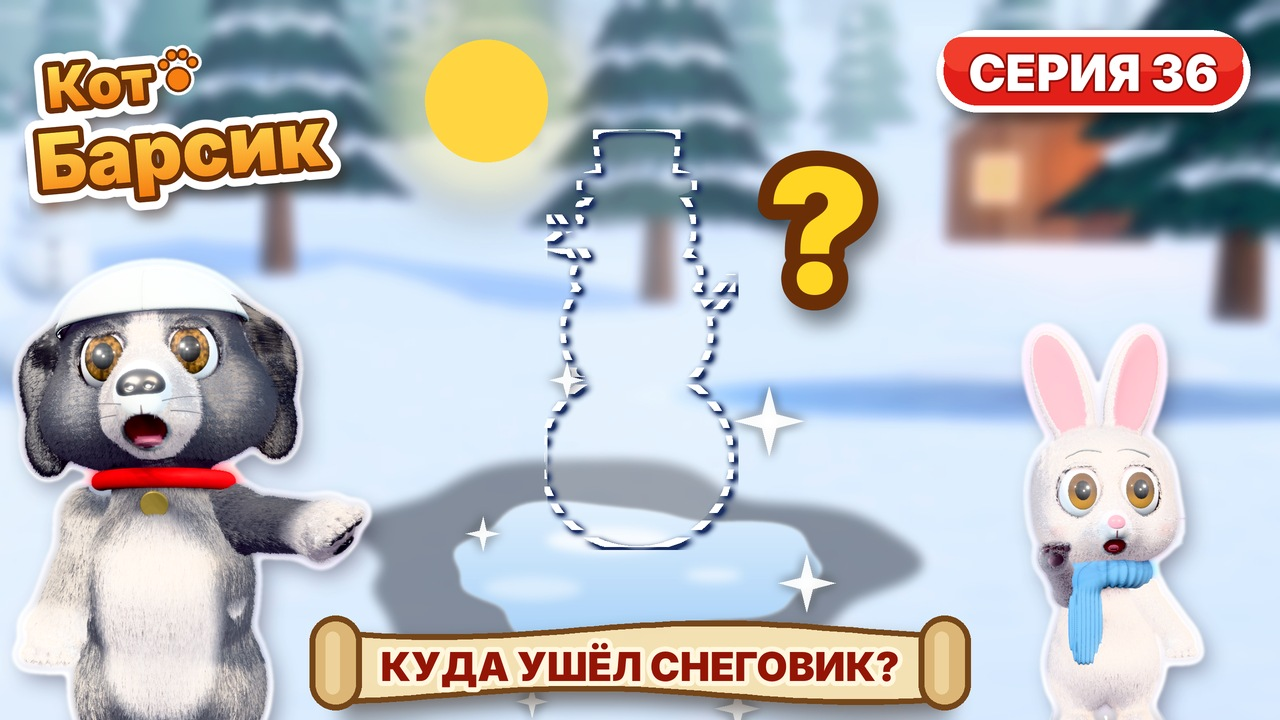
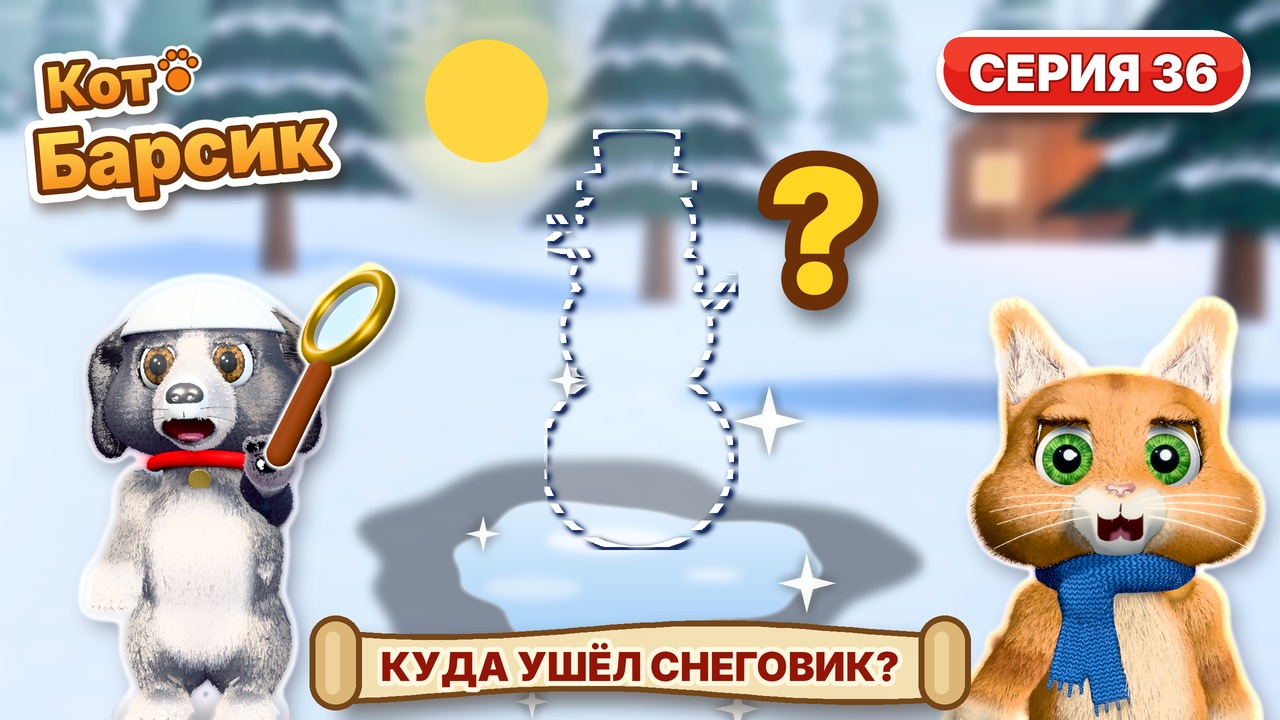
Обложки: 36 v3 «пропажа» по элементам сборки 36 (Рон-сыщик с лупой), 37 v1 «действие» (Рон прыгает на лёд)
Claude-Session: https://claude.ai/code/session_01WYD11AKTjvBYy3ci2X1Asi

diff --git a/covers/37/v1.py b/covers/37/v1.py
@@ -1,0 +1,46 @@
+# Обложка 37, схема «действие» (22.11.2026): Рон в прыжке по диагонали летит на замёрзшую лужу — лёд голубой, блестит,
+# белый иней по краю и трещинки; «?» над льдом; Филя смеётся справа (мельче). Лёд рисуется здесь (как в движке led-eng).
+#   OBLOZHKA=<папка с compose.py> python3 covers/37/v1.py папка_элементов выход.jpg
+import sys, os, math, random
+sys.path.insert(0, os.path.join(os.path.dirname(os.path.abspath(__file__)), '..', '..'))
+import afisha as A
+from PIL import Image, ImageDraw, ImageFilter, ImageEnhance, ImageChops
+el, out = sys.argv[1], sys.argv[2]; BW, BH, S = A.BW, A.BH, A.S
+plan = {"el": el, "bg": "f1_winter_day.jpg", "bg_zoom": [0.5, 0.45, 1.35], "blur": 6, "sat": 1.25, "bri": 1.05, "tint": [140, 190, 250, 35]}
+cv = A.background(plan, el)
+def blob(cx, cy, rx, ry, seed, n=90):
+    pts = []
+    for i in range(n):
+        a = i / n * 2 * math.pi; k = 1 + .1 * math.sin(a * 3 + seed) + .06 * math.sin(a * 5 + seed * 2.3) + .03 * math.sin(a * 9 + seed * .7)
+        pts.append((cx + math.cos(a) * rx * k, cy + math.sin(a) * ry * k))
+    return pts
+# лёд: иней по краю, голубая гладь с градиентом, отражение неба, трещинки, блики
+cx, cy, rx, ry = BW * .5, BH * .8, BW * .3, BH * .13
+L = A.layer(); d = ImageDraw.Draw(L); d.polygon(blob(cx, cy + 8 * S, rx * 1.06, ry * 1.12, 1.3), fill=(70, 110, 160, 90)); cv.alpha_composite(L.filter(ImageFilter.GaussianBlur(14 * S)))
+L = A.layer(); d = ImageDraw.Draw(L); d.polygon(blob(cx, cy, rx * 1.04, ry * 1.08, 1.3), fill=(246, 251, 255, 255)); cv.alpha_composite(L.filter(ImageFilter.GaussianBlur(2 * S)))
+m = Image.new('L', (BW, BH), 0); ImageDraw.Draw(m).polygon(blob(cx, cy, rx * .95, ry * .95, 1.3), fill=255)
+g = Image.new('RGBA', (BW, BH)); gd = ImageDraw.Draw(g)
+for y in range(int(cy - ry * 1.1), int(cy + ry * 1.1)):
+    t = (y - (cy - ry)) / (2 * ry); t = min(1, max(0, t)); c = (int(150 + 60 * t), int(205 + 30 * t), int(238 + 12 * t), 255); gd.line([(cx - rx * 1.2, y), (cx + rx * 1.2, y)], fill=c)
+g.putalpha(m); cv.alpha_composite(g)
+L = A.layer(); d = ImageDraw.Draw(L); rnd = random.Random(5)
+for (x0, y0, ln, a) in [(-.45, -.1, .5, .25), (.05, .25, .45, -.4), (.35, -.2, .35, .9), (-.1, -.35, .3, 2.6), (-.6, .3, .25, -.2)]:
+    px, py = cx + x0 * rx, cy + y0 * ry; pts = [(px, py)]
+    for k in range(5): a += rnd.uniform(-.5, .5); px += math.cos(a) * ln * rx / 5; py += math.sin(a) * ln * ry / 5 * 1.6; pts.append((px, py))
+    d.line(pts, fill=(255, 255, 255, 230), width=3 * S)
+for (x0, y0, w0, h0) in [(-.25, -.3, .32, .1), (.3, .15, .18, .06)]:
+    d.ellipse([cx + (x0 - w0) * rx, cy + (y0 - h0) * ry, cx + (x0 + w0) * rx, cy + (y0 + h0) * ry], fill=(255, 255, 255, 120))
+L2 = Image.new('RGBA', (BW, BH)); L2.paste(L, (0, 0), m); cv.alpha_composite(L2)
+for it in [
+    {"img": "g3_Филя_likuet1.png", "cx": 0.87, "bottom": 1.04, "h": 0.56, "outline": 6, "flip": True},
+    {"img": "g2_Рон_pryg.png", "cx": 0.36, "bottom": 0.74, "h": 0.66, "rot": -18, "outline": 7},
+    {"sparkles": True, "cx": 0.55, "cy": 0.79, "r": 0.2, "n": 7},
+    {"mark": "?", "cx": 0.68, "cy": 0.33, "h": 0.24},
+]: A.place(cv, it, el)
+# линии движения за Роном
+L = A.layer(); d = ImageDraw.Draw(L)
+for k, (x0, y0) in enumerate([(.13, .2), (.11, .3), (.14, .4)]):
+    d.line([(BW * x0, BH * y0), (BW * (x0 + .08), BH * (y0 + .08))], fill=(255, 255, 255, 200), width=6 * S)
+cv.alpha_composite(L.filter(ImageFilter.GaussianBlur(1 * S)))
+A.C.logo(cv, .8); A.C.pill(cv, "СЕРИЯ 37"); A.C.PAD = 30; A.C.banner(cv, ["ЛУЖА СТАЛА ЛЬДОМ?"], 'center', maxw=.5, base=40)
+res = cv.convert('RGB').resize((A.W, A.H), Image.LANCZOS); res = ImageEnhance.Contrast(res).enhance(1.03); res.save(out, quality=93, optimize=True); res.resize((320, 180), Image.LANCZOS).save(out.replace('.jpg', '_mini.jpg'), quality=88); print(out)

diff --git a/covers/36/v3.py b/covers/36/v3.py
@@ -1,0 +1,39 @@
+# Обложка 36 v3, схема «пропажа» (22.11.2026, элементы сборки 36): на снегу лужа, над ней пунктиром — контур снеговика, которого нет;
+# знак «?»; Рон-сыщик с лупой слева показывает на лужу, Барсик удивлён справа (оба мельче вещи). v_luzha.png — covers/31/luzha.py.
+#   OBLOZHKA=<папка с compose.py> python3 covers/36/v3.py папка_элементов выход.jpg
+import sys, os, math, random
+sys.path.insert(0, os.path.join(os.path.dirname(os.path.abspath(__file__)), '..', '..'))
+import afisha as A
+from PIL import Image, ImageDraw, ImageFilter, ImageEnhance, ImageChops
+el, out = sys.argv[1], sys.argv[2]; BW, BH, S = A.BW, A.BH, A.S
+plan = {"el": el, "bg": "f1_winter_day.jpg", "bg_zoom": [0.62, 0.5, 1.4], "blur": 6, "sat": 1.3, "bri": 1.04, "tint": [120, 170, 240, 30]}
+cv = A.background(plan, el)
+# солнышко справа сверху
+L = A.layer(); d = ImageDraw.Draw(L); sx, sy, sr = BW * .38, BH * .14, BH * .085
+d.ellipse([sx - sr * 1.8, sy - sr * 1.8, sx + sr * 1.8, sy + sr * 1.8], fill=(255, 230, 140, 90)); cv.alpha_composite(L.filter(ImageFilter.GaussianBlur(20 * S)))
+L = A.layer(); d = ImageDraw.Draw(L); d.ellipse([sx - sr, sy - sr, sx + sr, sy + sr], fill=(255, 214, 70, 255)); cv.alpha_composite(L)
+# лужа
+lz = Image.open(os.path.join(el, 'v_luzha.png')).convert('RGBA'); lz = lz.crop(lz.getbbox()); k = BW * .46 / lz.width
+lz = lz.resize((int(lz.width * k), int(lz.height * k)), Image.LANCZOS); cx, cy = BW * .5, BH * .78
+cv.alpha_composite(lz, (int(cx - lz.width / 2), int(cy - lz.height / 2)))
+# контур снеговика пунктиром — «был тут»
+sm = Image.open(os.path.join(el, 'v_snowman.png')).convert('RGBA'); sm = sm.crop(sm.getbbox()); k = BH * .58 / sm.height
+sm = sm.resize((int(sm.width * k), int(sm.height * k)), Image.LANCZOS); a = sm.split()[3].point(lambda v: 255 if v > 90 else 0)
+edge = ImageChops.subtract(a.filter(ImageFilter.MaxFilter(21)), a)
+dash = Image.new('L', sm.size, 0); dd = ImageDraw.Draw(dash)
+for y in range(0, sm.height, 34): dd.rectangle([0, y, sm.width, y + 18], fill=255)
+edge = ImageChops.multiply(edge, dash)
+ghost = Image.new('RGBA', sm.size, (255, 255, 255, 0)); ghost.putalpha(edge)
+fill = Image.new('RGBA', sm.size, (255, 255, 255, 0)); fill.putalpha(a.point(lambda v: int(v * .18)))
+gx, gy = int(cx - sm.width / 2), int(cy - BH * .02 - sm.height)
+cv.alpha_composite(fill, (gx, gy)); sh = Image.new('RGBA', sm.size, (30, 50, 100, 0)); sh.putalpha(edge.filter(ImageFilter.GaussianBlur(3 * S)).point(lambda v: min(255, v * 2)))
+cv.alpha_composite(sh, (gx + 3 * S, gy + 3 * S)); cv.alpha_composite(ghost, (gx, gy))
+for it in [
+    {"img": "g2_Рон_pokaz1.png", "cx": 0.16, "bottom": 1.04, "h": 0.66, "outline": 6},
+    {"img": "v_magnifier.png", "cx": 0.255, "bottom": 0.66, "h": 0.17, "rot": 35, "outline": 4},
+    {"img": "g1_Барсик_udiv.png", "cx": 0.86, "bottom": 1.05, "h": 0.64, "outline": 6, "flip": True},
+    {"mark": "?", "cx": 0.64, "cy": 0.32, "h": 0.24},
+    {"sparkles": True, "cx": 0.5, "cy": 0.78, "r": 0.16, "n": 6},
+]: A.place(cv, it, el)
+A.C.logo(cv, .8); A.C.pill(cv, "СЕРИЯ 36"); A.C.PAD = 30; A.C.banner(cv, ["КУДА УШЁЛ СНЕГОВИК?"], 'center', maxw=.5, base=40)
+res = cv.convert('RGB').resize((A.W, A.H), Image.LANCZOS); res = ImageEnhance.Contrast(res).enhance(1.03); res.save(out, quality=93, optimize=True); res.resize((320, 180), Image.LANCZOS).save(out.replace('.jpg', '_mini.jpg'), quality=88); print(out)
